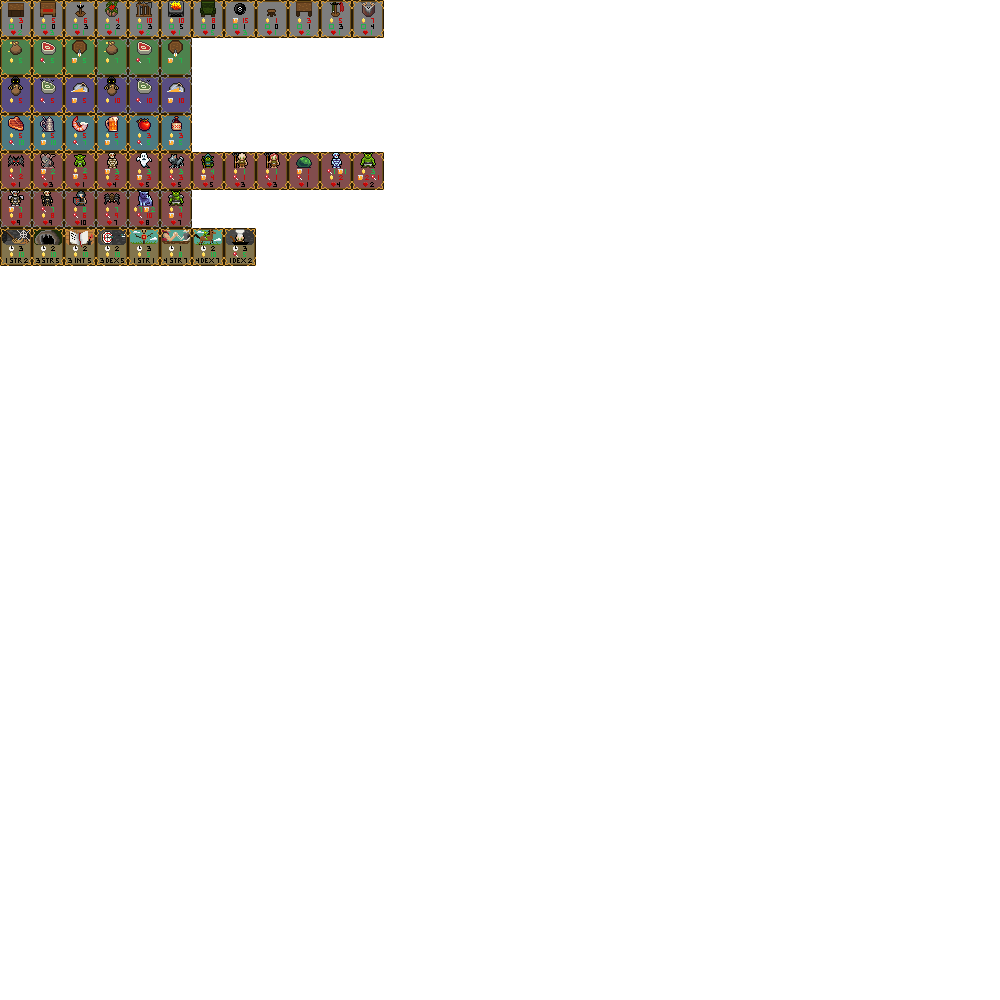
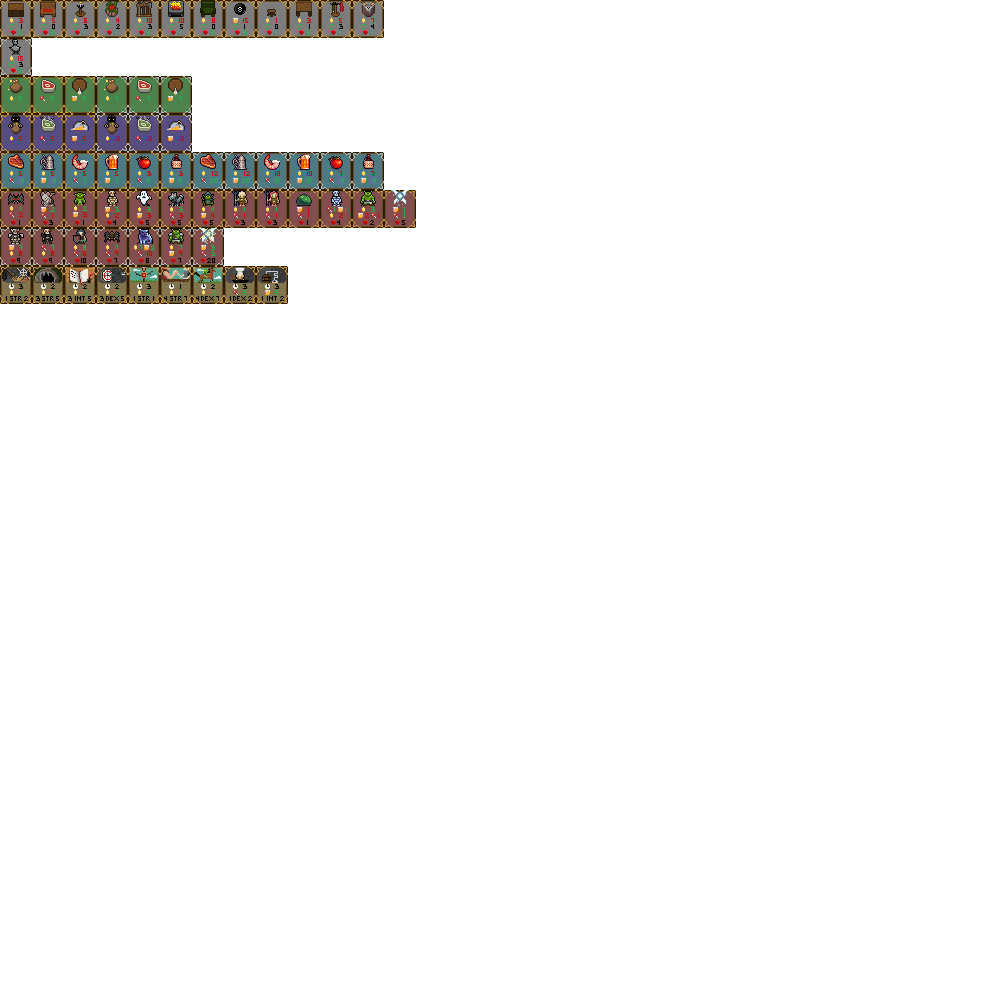
Added More Content

Changed region(s): [[0.0, 0.031, 0.434, 0.31]]

diff --git a/db.js b/db.js
@@ -10,63 +10,73 @@ var OBJECTSPRITES = {
     "stool" : new Vector2D(8,0),
     "table" : new Vector2D(9,0),
     "coatrack" : new Vector2D(10,0),
-    "jackalope" : new Vector2D(11,0)
+    "jackalope" : new Vector2D(11,0),
+    "bust" : new Vector2D(0,1)
 }
 
 var BUFFCURSESPRITES = {
-    "goldBuff" : new Vector2D(0, 1),
-    "foodBuff" : new Vector2D(1, 1),
-    "beerBuff" : new Vector2D(2,1),
-    "goldCurse" : new Vector2D(0, 2),
-    "foodCurse" : new Vector2D(1, 2),
-    "beerCurse" : new Vector2D(2, 2),
-    "goldBuffUnc" : new Vector2D(3, 1),
-    "foodBuffUnc" : new Vector2D(4, 1),
-    "beerBuffUnc" : new Vector2D(5,1),
-    "goldCurseUnc" : new Vector2D(3, 2),
-    "foodCurseUnc" : new Vector2D(4, 2),
-    "beerCurseUnc" : new Vector2D(5, 2)
+    "goldBuff" : new Vector2D(0, 2),
+    "foodBuff" : new Vector2D(1, 2),
+    "beerBuff" : new Vector2D(2,2),
+    "goldCurse" : new Vector2D(0, 3),
+    "foodCurse" : new Vector2D(1, 3),
+    "beerCurse" : new Vector2D(2, 3),
+    "goldBuffUnc" : new Vector2D(3, 2),
+    "foodBuffUnc" : new Vector2D(4, 2),
+    "beerBuffUnc" : new Vector2D(5,2),
+    "goldCurseUnc" : new Vector2D(3, 3),
+    "foodCurseUnc" : new Vector2D(4, 3),
+    "beerCurseUnc" : new Vector2D(5, 3)
 }
 
 var RSCCARDSPRITES = {
-    "chicken" : new Vector2D(0, 3),
+    "chicken" : new Vector2D(0, 4),
     "keg" : new Vector2D(1,3),
-    "chickenmed" : new Vector2D(2,3),
-    "kegmed" : new Vector2D(3,3),
-    "chickensmall" : new Vector2D(4,3),
-    "kegsmall" : new Vector2D(5,3)
+    "chickenmed" : new Vector2D(2,4),
+    "kegmed" : new Vector2D(3,4),
+    "chickensmall" : new Vector2D(4,4),
+    "kegsmall" : new Vector2D(5,4),
+    "chickenUnc" : new Vector2D(0, 4),
+    "kegUnc" : new Vector2D(1,4),
+    "chickenmedUnc" : new Vector2D(2,4),
+    "kegmedUnc" : new Vector2D(3,4),
+    "chickensmallUnc" : new Vector2D(4,4),
+    "kegsmallUnc" : new Vector2D(5,4)
 }
 
 var CHARCARDSPRITES = {
-    "bat" : new Vector2D(0, 4),
-    "rat" : new Vector2D(1, 4),
-    "goblin" : new Vector2D(2, 4),
-    "skeleton" : new Vector2D(3, 4),
-    "ghost" : new Vector2D(4,4),
-    "wolf" : new Vector2D(5,4),
-    "goblinmage" : new Vector2D(6,4),
-    "peasantmale" : new Vector2D(7,4),
-    "peasantfemale" : new Vector2D(8,4),
-    "slime" : new Vector2D(9,4),
-    "iceskeleton" : new Vector2D(10,4),
-    "orcpleb" : new Vector2D(11,4),
-    "skeletonwarrior" : new Vector2D(0,5),
-    "skeletonmage" : new Vector2D(1,5),
-    "humanwarrior" : new Vector2D(2,5),
-    "spider" : new Vector2D(3,5),
-    "icebeast" : new Vector2D(4,5),
-    "orcwarrior" : new Vector2D(5,5)
+    "bat" : new Vector2D(0, 5),
+    "rat" : new Vector2D(1, 5),
+    "goblin" : new Vector2D(2, 5),
+    "skeleton" : new Vector2D(3, 5),
+    "ghost" : new Vector2D(4,5),
+    "wolf" : new Vector2D(5,5),
+    "goblinmage" : new Vector2D(6,5),
+    "peasantmale" : new Vector2D(7,5),
+    "peasantfemale" : new Vector2D(8,5),
+    "slime" : new Vector2D(9,5),
+    "iceskeleton" : new Vector2D(10,5),
+    "orcpleb" : new Vector2D(11,5),
+    "lesserwillowisp" : new Vector2D(12,5),
+    "skeletonwarrior" : new Vector2D(0,6),
+    "skeletonmage" : new Vector2D(1,6),
+    "humanwarrior" : new Vector2D(2,6),
+    "spider" : new Vector2D(3,6),
+    "icebeast" : new Vector2D(4,6),
+    "orcwarrior" : new Vector2D(5,6),
+    "greaterwillowisp" : new Vector2D(6,6)
 }
 
 var QUESTCARDSPRITES = {
-    "sweep" : new Vector2D(0, 6),
-    "cave" : new Vector2D(1,6),
-    "book" : new Vector2D(2,6),
-    "darts" : new Vector2D(3,6),
-    "trainingdummy" : new Vector2D(4,6),
-    "armwrestle" : new Vector2D(5,6),
-    "dressage" : new Vector2D(6,6),
-    "cook" : new Vector2D(7,6)
+    "sweep" : new Vector2D(0, 7),
+    "cave" : new Vector2D(1,7),
+    "book" : new Vector2D(2,7),
+    "darts" : new Vector2D(3,7),
+    "trainingdummy" : new Vector2D(4,7),
+    "armwrestle" : new Vector2D(5,7),
+    "dressage" : new Vector2D(6,7),
+    "cook" : new Vector2D(7,7),
+    "brew" : new Vector2D(8,7)
 }
 
 var RSCTYPECHANCE = 0.5;
@@ -340,6 +350,10 @@ class Database
         this.objectCardsCommon.push(new ObjectCard(OBJECTSPRITES["jackalope"].x, OBJECTSPRITES["jackalope"].y,
                                             OBJECTSPRITES["jackalope"].x, OBJECTSPRITES["jackalope"].y, 1, 4, false, -1,
                                             new ResourceUpkeep(this.gold, -7), "Mounted Jackalope Head"));
+
+        this.objectCardsUncommon.push(new ObjectCard(OBJECTSPRITES["bust"].x, OBJECTSPRITES["bust"].y,
+                                            OBJECTSPRITES["bust"].x, OBJECTSPRITES["bust"].y, 3, 3, false, -1,
+                                            new ResourceUpkeep(this.gold, -15), "Bust of a Great Warrior"));
     }
 
     LoadbuffCardsCommon()
@@ -390,6 +404,19 @@ class Database
                                             RSCCARDSPRITES["chickensmall"].x, RSCCARDSPRITES["chickensmall"].y, this.food, this.gold, 5, 3));
         this.rscCardsCommon.push(new ResourceCard(RSCCARDSPRITES["kegsmall"].x, RSCCARDSPRITES["kegsmall"].y,
                                             RSCCARDSPRITES["kegsmall"].x, RSCCARDSPRITES["kegsmall"].y, this.beer, this.gold, 5, 3));
+
+        this.rscCardsUncommon.push(new ResourceCard(RSCCARDSPRITES["chickenUnc"].x, RSCCARDSPRITES["chickenUnc"].y,
+                                            RSCCARDSPRITES["chickenUnc"].x, RSCCARDSPRITES["chickenUnc"].y, this.food, this.gold, 20, 12));
+        this.rscCardsUncommon.push(new ResourceCard(RSCCARDSPRITES["kegUnc"].x, RSCCARDSPRITES["kegUnc"].y,
+                                            RSCCARDSPRITES["kegUnc"].x, RSCCARDSPRITES["kegUnc"].y, this.beer, this.gold, 20, 12));
+        this.rscCardsUncommon.push(new ResourceCard(RSCCARDSPRITES["chickenmedUnc"].x, RSCCARDSPRITES["chickenmedUnc"].y,
+                                            RSCCARDSPRITES["chickenmedUnc"].x, RSCCARDSPRITES["chickenmedUnc"].y, this.food, this.gold, 15, 10));
+        this.rscCardsUncommon.push(new ResourceCard(RSCCARDSPRITES["kegmedUnc"].x, RSCCARDSPRITES["kegmedUnc"].y,
+                                            RSCCARDSPRITES["kegmedUnc"].x, RSCCARDSPRITES["kegmedUnc"].y, this.beer, this.gold, 15, 10));
+        this.rscCardsUncommon.push(new ResourceCard(RSCCARDSPRITES["chickensmallUnc"].x, RSCCARDSPRITES["chickensmallUnc"].y,
+                                            RSCCARDSPRITES["chickensmallUnc"].x, RSCCARDSPRITES["chickensmallUnc"].y, this.food, this.gold, 10, 7));
+        this.rscCardsUncommon.push(new ResourceCard(RSCCARDSPRITES["kegsmallUnc"].x, RSCCARDSPRITES["kegsmallUnc"].y,
+                                            RSCCARDSPRITES["kegsmallUnc"].x, RSCCARDSPRITES["kegsmallUnc"].y, this.beer, this.gold, 10, 7));
     }
 
     LoadCharacterCards()
@@ -442,6 +469,10 @@ class Database
                                               CHARCARDSPRITES["orcpleb"].x, CHARCARDSPRITES["orcpleb"].y, 2, 
                                               [ new ResourceUpkeep(this.beer, -2), new ResourceUpkeep(this.food, -1), new ResourceUpkeep(this.gold, 3) ], "Orc Pleb",
                                               new CharacterStats(1,4,1))); 
+        this.charCardsCommon.push(new CharacterCard(CHARCARDSPRITES["lesserwillowisp"].x, CHARCARDSPRITES["lesserwillowisp"].y,
+                                              CHARCARDSPRITES["lesserwillowisp"].x, CHARCARDSPRITES["lesserwillowisp"].y, 5, 
+                                              [ new ResourceUpkeep(this.beer, 1), new ResourceUpkeep(this.food, 1) ], "Lesser Will-O-Wisp",
+                                              new CharacterStats(1,0,0))); 
                                               
         this.charCardsUncommon.push(new CharacterCard(CHARCARDSPRITES["skeletonwarrior"].x, CHARCARDSPRITES["skeletonwarrior"].y,
                                               CHARCARDSPRITES["skeletonwarrior"].x, CHARCARDSPRITES["skeletonwarrior"].y, 9, 
@@ -466,7 +497,11 @@ class Database
         this.charCardsUncommon.push(new CharacterCard(CHARCARDSPRITES["orcwarrior"].x, CHARCARDSPRITES["orcwarrior"].y,
                                               CHARCARDSPRITES["orcwarrior"].x, CHARCARDSPRITES["orcwarrior"].y, 7, 
                                               [ new ResourceUpkeep(this.gold, 7), new ResourceUpkeep(this.beer, -9)], "Orc Warrior",
-                                              new CharacterStats(1,5,1)));                                            
+                                              new CharacterStats(1,5,1)));   
+        this.charCardsUncommon.push(new CharacterCard(CHARCARDSPRITES["greaterwillowisp"].x, CHARCARDSPRITES["greaterwillowisp"].y,
+                                              CHARCARDSPRITES["greaterwillowisp"].x, CHARCARDSPRITES["greaterwillowisp"].y, 20, 
+                                              [ new ResourceUpkeep(this.beer, 3), new ResourceUpkeep(this.food, 3) ], "Greater Will-O-Wisp",
+                                              new CharacterStats(2,0,0)));                                          
     }
 
     LoadquestCardsCommon()
@@ -494,6 +529,9 @@ class Database
                                         4, 7, STATTYPE_DEX, 2, [new ResourceUpkeep(this.gold, 10)], "Horse Dressage"));
         this.questCardsCommon.push(new QuestCard(QUESTCARDSPRITES["cook"].x, QUESTCARDSPRITES["cook"].y,
                                         QUESTCARDSPRITES["cook"].x, QUESTCARDSPRITES["cook"].y,
-                                       1, 2, STATTYPE_DEX, 3, [new ResourceUpkeep(this.food, 5)], "Cook Stew"));         
+                                       1, 2, STATTYPE_DEX, 3, [new ResourceUpkeep(this.food, 5)], "Cook Stew"));
+        this.questCardsCommon.push(new QuestCard(QUESTCARDSPRITES["brew"].x, QUESTCARDSPRITES["brew"].y,
+                                       QUESTCARDSPRITES["brew"].x, QUESTCARDSPRITES["brew"].y,
+                                      1, 2, STATTYPE_INT, 3, [new ResourceUpkeep(this.beer, 5)], "Brew Beer"));           
     }
 }
